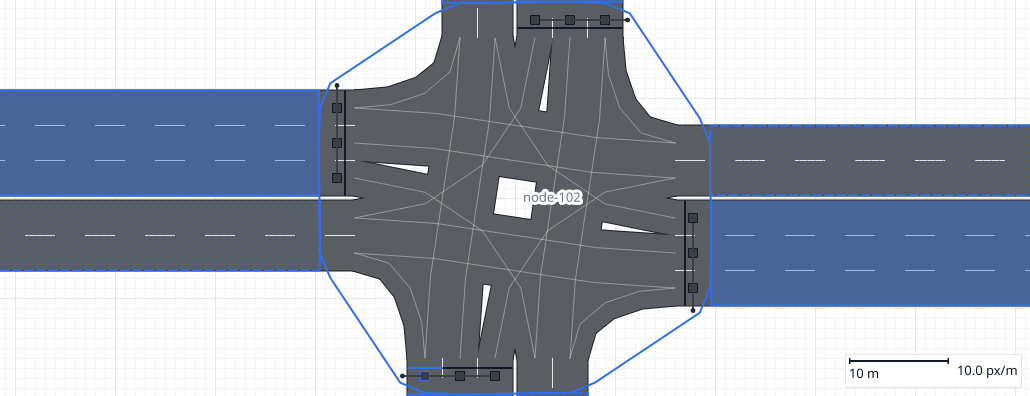
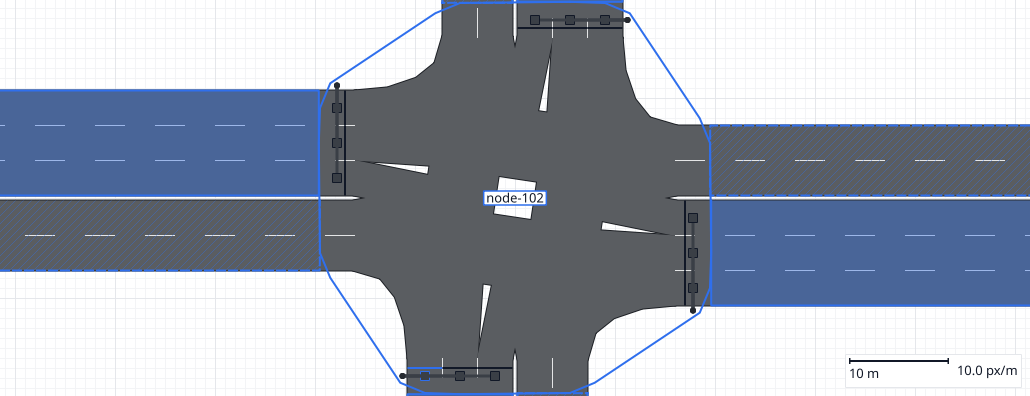
Canvas review, round 4: selected-only Node name tag, no resting Connector lane guides, heavier signal mast (D460)
Claude-Session: https://claude.ai/code/session_015Mvp19Hk1ohn1YiycgTvBD

diff --git a/src/editor/canvas_labels.cpp b/src/editor/canvas_labels.cpp
@@ -21,17 +21,17 @@ CanvasLabel::CanvasLabel(const QString& text, const QFont& font, QPointF anchor,
 }
 QRectF CanvasLabel::frame() const {
     const auto text = textRect();
-    if (style_ != Style::box && !onLane_) return text;
+    if (style_ == Style::halo && !onLane_) return text;
     // D460: a box or on-lane label is as tall as its text's ink (digits, Thai marks), not the
     // font's whole line, which made the boxes tall.
     const QFontMetricsF metrics(font());
     const auto ink = metrics.tightBoundingRect(this->text());
     const double top = metrics.ascent() + ink.top(), bottom = metrics.ascent() + ink.bottom();
-    const double x = onLane_ ? 2 : padX, y = onLane_ ? 1 : padY;
+    const double x = onLane_ ? 2 : style_ == Style::tag ? 3 : padX, y = onLane_ ? 1 : style_ == Style::tag ? 2 : padY;
     return QRectF(text.left() - x, top - y, text.width() + 2 * x, bottom - top + 2 * y);
 }
 QRectF CanvasLabel::boundingRect() const {
-    return style_ == Style::box || onLane_ ? frame().adjusted(-2, -2, 2, 2) : textRect().adjusted(-halo, -halo, halo, halo);
+    return style_ != Style::halo || onLane_ ? frame().adjusted(-2, -2, 2, 2) : textRect().adjusted(-halo, -halo, halo, halo);
 }
 QPainterPath CanvasLabel::shape() const { QPainterPath path; path.addRect(boundingRect()); return path; }
 void CanvasLabel::paint(QPainter* painter, const QStyleOptionGraphicsItem*, QWidget*) {
@@ -54,11 +54,12 @@ void CanvasLabel::paint(QPainter* painter, const QStyleOptionGraphicsItem*, QWid
         painter->restore();
         return;
     }
-    if (style_ == Style::box) {
-        // D425: a white box, grey frame (accent and heavier when pinned), then the text.
+    if (style_ != Style::halo) {
+        // D425 (and D460's tag): a white box, grey frame (accent and heavier when pinned), then the text.
         QPen pen(pinned_ ? canvasStyle::selection() : editorDesign::role(QPalette::Dark), pinned_ ? 1.5 : 1);
         painter->setPen(pen); painter->setBrush(editorDesign::role(QPalette::Base));
-        painter->drawRoundedRect(frame().adjusted(.5, .5, -.5, -.5), radius, radius);
+        const double corner = style_ == Style::tag ? 0 : radius; // a tag is a plain rectangle
+        painter->drawRoundedRect(frame().adjusted(.5, .5, -.5, -.5), corner, corner);
     } else {
         // D424: the glyph outlines, stroked wide in Base, then filled in the label's brush.
         painter->strokePath(glyphs, QPen(editorDesign::role(QPalette::Base), 2 * halo, Qt::SolidLine, Qt::RoundCap, Qt::RoundJoin));
@@ -111,6 +112,13 @@ std::vector<bool> EditorCanvas::placeLaneLabels(const QTransform& toScreen, std:
     for (std::size_t i = 0; i < labels_.size(); ++i) {
         auto* label = labels_[i];
         const auto& slot = label->laneSlot();
+        if (label->style() == CanvasLabel::Style::tag) { // D460: centred on the anchor, as it is
+            const auto box = label->frame();
+            label->setTransform(QTransform::fromTranslate(-box.center().x(), -box.center().y()));
+            placed.push_back(box.translated(-box.center()).translated(toScreen.map(label->anchor())).adjusted(-2, -2, 2, 2));
+            label->setVisible(true); label->setData(4, QStringLiteral("shown")); settled[i] = true;
+            continue;
+        }
         if (!slot || slot->laneCount < 1) continue;
         label->setOnLane(true);
         const QPointF a = toScreen.map(slot->from), b = toScreen.map(slot->to);

diff --git a/tests/canvas_layers_ui_tests.cpp b/tests/canvas_layers_ui_tests.cpp
@@ -59,12 +59,7 @@ void standalone(EditorCanvas& c,DrivingSide side) {
     require(extreme(ground,true)<extreme(surfaces,false),
             "A kerb lies over a surface of its level");
     require(extreme(upper,false)>extreme(surfaces,true),"The bridge's kerb is under the ground surfaces");
-    require(faint(c)>0,"A resting Connector at 14 px per lane shows no lane guides");
-    const auto guides=tagged(c,"connector-guide",connector);
-    require(guides.size()==2,"A resting two-lane Connector does not show one guide per lane");
-    for(auto* g:guides)
-        require(g->zValue()>extreme(surfaces,true) && g->zValue()<extreme(linkMarks,false) && g->pen().isCosmetic() &&
-                g->pen().color().alpha()==canvasStyle::connectorGuideAlpha,"A lane guide is not a faint line between the surfaces and the Link markings");
+    require(faint(c)==0,"A resting Connector still draws lane-centre guides (D460)");
     require(tagged(c,"road-marking",connector).empty(),"A resting Connector still draws lane markings");
     // 2. One asphalt: the Connector is its type's linkColor, not connectorColor.
     for(auto* s:surfaces)require(s->brush().color()==QColor("#49596d"),"A Connector surface is not road asphalt");
@@ -73,10 +68,6 @@ void standalone(EditorCanvas& c,DrivingSide side) {
     // 3. At rest no edge and no mouth edge; under 8 px no dividers either.
     require(connectorLines(c,connector,"edge")==0 && tagged(c,"connector-mouth-edge").empty(),
             "A resting Connector still draws its edges over the junction");
-    view(c,8/3.5*(1-1e-3));
-    require(faint(c)==0 && !tagged(c,"road-kerb").empty(),"Lane guides drawn under 8 px per lane");
-    view(c,8/3.5*(1-1e-12)); // D205: one rounding below is no zoom change
-    require(faint(c)>0,"A rounding of the scale hid the lane guides");
     // ...and selected, hovered or under the Connect tool it draws today's full set at z+4.5.
     view(c,4);
     c.select(connector.toStdString());c.redraw();settle();
@@ -119,14 +110,14 @@ int main(int argc,char** argv) {
         window.openFile(QString::fromStdString((data/"projects/four-leg-signalised.traffic.json").string()));settle();
         auto& canvas=*window.canvas();
         view(canvas,9);
-        require(faint(canvas)>=20 && !tagged(canvas,"road-kerb").empty(),"The shipped junction has no lane guide per Connector lane, or no kerb");
+        require(faint(canvas)==0 && !tagged(canvas,"road-kerb").empty(),"The shipped junction draws lane guides, or no road edge");
         if(argc>2)require(canvas.viewport()->grab().save(QString::fromUtf8(argv[2])+"-edit.png"),"Screenshot failed");
         for(int i=0;i<200;++i)window.findChild<QAction*>("editorStep")->trigger();
         settle();
         require(canvas.renderedVehicles()>0,"The forcing: the run shows vehicles");
         require(faint(canvas)==0 && !tagged(canvas,"road-kerb").empty() && !tagged(canvas,"road-surface").empty(),
                 "A run kept the lane guides or lost the road");
-        std::cout<<"Canvas layers: kerb under one asphalt, Node fill, faint resting lane guides, unchanged hits passed\n";
+        std::cout<<"Canvas layers: road edge under one asphalt, no Node fill, no resting lane guides, unchanged hits passed\n";
         return 0;
     }catch(const std::exception& e){std::cerr<<e.what()<<'\n';return 1;}
 }

diff --git a/src/editor/canvas_connectors.cpp b/src/editor/canvas_connectors.cpp
@@ -148,9 +148,9 @@ void EditorCanvas::drawConnectors() {
         addKerb(surface,c.level,narrowest,c.id);
         const bool readable=canvasStyle::laneMarkingsReadable(narrowest,viewScale());
         // D423: only a Connector being worked on -- selected, hovered or under the Connect tool --
-        // draws its edges, dividers and mouth edges over the junction. At rest the kerb is its edge,
-        // and from 8 px per lane, outside a run, each lane's centre path lies faintly under every
-        // Link marking: the turn a vehicle takes, legible where the lines no longer tangle.
+        // draws its edges, dividers and mouth edges over the junction. At rest the road edge is its
+        // only line: D460 dropped D423's faint lane-centre guides, which crossed in a tangle over
+        // every junction; hover or select a Connector to see its lanes.
         const bool emphasised=isSelected(c.id) || c.id==hoverObject_ || tool_==Tool::connect;
         const QColor laneColour(QString::fromStdString(style(c.displayType).laneColor));
         if(emphasised && readable)
@@ -161,16 +161,6 @@ void EditorCanvas::drawConnectors() {
             auto* item=scene_.addPath(canvasStyle::markingPath(marking.geometry,marking.type,look.laneDash,look.laneGap),pen);item->setZValue(z+4.5);
             item->setData(0,QStringLiteral("road-marking"));item->setData(1,QString::fromStdString(c.id));
             item->setData(2,marking.edge?QStringLiteral("edge"):QStringLiteral("divider"));
-        }
-        if(!emphasised && !runFrame_.scenario && canvasStyle::connectorLanesReadable(narrowest,viewScale()))
-        for(std::size_t i=0;i+1<drawing.boundaries.size();++i) {
-            const auto& left=drawing.boundaries[i];const auto& right=drawing.boundaries[i+1];
-            if(left.size()!=right.size() || left.size()<2)continue; // rails share their stations
-            std::vector<Point> centre;centre.reserve(left.size());
-            for(std::size_t k=0;k<left.size();++k)centre.push_back({(left[k].x+right[k].x)/2,(left[k].y+right[k].y)/2});
-            auto* guide=scene_.addPath(path(centre),canvasStyle::connectorGuidePen(laneColour));
-            guide->setZValue(z+canvasStyle::connectorGuideLayer);
-            guide->setData(0,QStringLiteral("connector-guide"));guide->setData(1,QString::fromStdString(c.id));
         }
         const auto mouthEdge=[&](const std::optional<ConnectorMouth>& mouth,const char* end) {
             if(!mouth || !readable || !emphasised)return;

diff --git a/src/editor/canvas_style.hpp b/src/editor/canvas_style.hpp
@@ -48,18 +48,6 @@ inline constexpr double creationPreviewOpacity = 0.6;
 inline bool laneMarkingsReadable(double laneWidthMetres, double pixelsPerMetre) {
     return laneWidthMetres * pixelsPerMetre >= minLanePixels * (1 - 1e-9);
 }
-// D423 (canvas style slice A): a resting Connector shows each lane's centre path as a faint 1 px
-// guide, only from 8 logical px per lane; the kerb under the one asphalt fill replaces its edges.
-inline constexpr double minConnectorLanePixels = 8;
-inline constexpr int connectorGuideAlpha = 110;
-inline bool connectorLanesReadable(double laneWidthMetres, double pixelsPerMetre) {
-    return laneWidthMetres * pixelsPerMetre >= minConnectorLanePixels * (1 - 1e-9);
-}
-inline QPen connectorGuidePen(QColor colour) {
-    colour.setAlpha(connectorGuideAlpha);
-    QPen pen(colour, 1, Qt::SolidLine, Qt::RoundCap, Qt::RoundJoin); pen.setCosmetic(true);
-    return pen;
-}
 // D423: every road surface is stroked with the kerb pen one layer below all surfaces of its level;
 // the fills cover the inner half, so only the outer contour of the road shows, with no seams.
 // D460 (owner review): a thin dark road edge, not a thick light kerb. The pen is 2 screen px; the
@@ -70,8 +58,8 @@ inline QPen kerbPen() {
     QPen pen(kerb(), kerbPixels, Qt::SolidLine, Qt::RoundCap, Qt::RoundJoin); pen.setCosmetic(true);
     return pen;
 }
-// Layers within a level (z = level*100 + ...): kerb, surface, resting Connector guides, Link markings.
-inline constexpr double kerbLayer = 0.5, surfaceLayer = 1, connectorGuideLayer = 1.5, linkMarkingLayer = 2;
+// Layers within a level (z = level*100 + ...): road edge, surface, Link markings.
+inline constexpr double kerbLayer = 0.5, surfaceLayer = 1, linkMarkingLayer = 2;
 
 inline QColor connectorBoundaryColor(const QColor& surface) {
     const auto linear = [](double channel) {

diff --git a/tests/node_ui_tests.cpp b/tests/node_ui_tests.cpp
@@ -1,5 +1,6 @@
 #include "../src/shell/editor_window.hpp"
 #include "ui_test_storage.hpp"
+#include "../src/editor/canvas_labels.hpp"
 #include "../src/project/json.hpp"
 #include <nlohmann/json.hpp>
 #include "../src/editor/canvas_style.hpp"
@@ -233,9 +234,20 @@ int main(int argc, char** argv) {
             require(c->viewport()->grab().save(QString::fromLocal8Bit(argv[2]) + name), "Node screenshot failed");
         };
         capture("-node-selected.png");
+        // D460: the selected Node's name is a tight framed tag centred on its centroid; at rest, none.
+        const auto nodeLabels = [&] { std::vector<CanvasLabel*> out;
+            for (auto* i : w.canvas()->scene()->items()) if (auto* l = dynamic_cast<CanvasLabel*>(i); l && l->data(0).toString() == "node-label") out.push_back(l);
+            return out; };
+        {
+            const auto shown = nodeLabels();
+            require(shown.size() == 1 && shown[0]->isVisible() && shown[0]->style() == CanvasLabel::Style::tag, "The selected Node shows no name tag");
+            const auto box = shown[0]->deviceTransform(c->viewportTransform()).mapRect(shown[0]->frame());
+            require(QLineF(box.center(), c->viewportTransform().map(shown[0]->anchor())).length() < 1, "The Node's name is not centred on it");
+        }
         require(outline(w) == canvasStyle::selection(), "The selected node's outline is not lit");
         table->clearSelection(); QApplication::processEvents();
         capture("-node-rest.png");
+        require(nodeLabels().empty(), "A Node at rest still shows its name");
         require(table->selectedItems().isEmpty(), "The row stayed selected");
         require(c->highlightedNode().empty() && drawnLegs(w).empty() && !outlined(w),
                 "Clearing the row kept the highlight");

diff --git a/src/editor/road_crossbar.cpp b/src/editor/road_crossbar.cpp
@@ -180,7 +180,7 @@ std::optional<QPointF> SignalHeadItem::poleAt() const {
 QRectF SignalHeadItem::boundingRect() const {
     auto bounds=shape().boundingRect();
     if(const auto pole=poleAt()) {
-        const double r=std::max(poleRadius,2/scale_);
+        const double r=std::max(poleRadius,2.5/scale_);
         bounds=bounds.united(QRectF(*pole-QPointF(r,r),QSizeF(2*r,2*r)));
     }
     return bounds.adjusted(-4/scale_,-4/scale_,4/scale_,4/scale_);
@@ -194,9 +194,10 @@ void SignalHeadItem::paint(QPainter* painter,const QStyleOptionGraphicsItem* opt
     if(const auto at=poleAt()) { // the mast arm from the pole to the head's kerb-side edge, then the pole
         const QPointF pole=*at;
         const double side=QPointF::dotProduct(pole-f->centre,f->across)<0?-1.:1.;
-        QPen arm(metal,2,Qt::SolidLine,Qt::FlatCap);arm.setCosmetic(true);
+        QPen arm(metal,3,Qt::SolidLine,Qt::FlatCap);arm.setCosmetic(true); // D460: a slightly heavier mast
+
         painter->setPen(arm);painter->drawLine(pole,f->centre+f->across*(side*f->size/2));
-        const double r=std::max(poleRadius,2/scale_);
+        const double r=std::max(poleRadius,2.5/scale_);
         painter->setPen(Qt::NoPen);painter->setBrush(QColor(38,42,48));painter->drawEllipse(pole,r,r);
     }
     // D460: one square box of one colour -- dark while editing, the state's colour in a run -- with a

diff --git a/src/editor/canvas_labels.hpp b/src/editor/canvas_labels.hpp
@@ -14,7 +14,8 @@ namespace multra {
 //
 // D460: an input rate may instead lie on its own lanes, along the road, while its text fits inside
 // them; zoomed out past that it hides (a pinned one falls back to its box). Box heights follow the
-// text's ink, not the font's line height.
+// text's ink, not the font's line height. A tag label (a selected Node's name) is a tight framed box
+// centred on its anchor, with no halo and no leader.
 class CanvasLabel : public QGraphicsSimpleTextItem {
 public:
     // Where an on-lane label may go: the input's bar runs across lanes firstLane.. of one Link
@@ -25,7 +26,7 @@ public:
     static constexpr double padX = 4, padY = 2;    // box padding
     static constexpr double radius = 3;            // box corner
     enum Priority { zone = 0, node = 1, decision = 2, input = 3 };
-    enum class Style { halo, box };
+    enum class Style { halo, box, tag }; // tag (D460): a tight frame centred on its anchor, never moved
     CanvasLabel(const QString& text, const QFont& font, QPointF anchor, int priority, bool pinned, Style style = Style::halo);
     QPointF anchor() const { return anchor_; }
     int priority() const { return priority_; }

diff --git a/src/editor/canvas_zones.cpp b/src/editor/canvas_zones.cpp
@@ -133,9 +133,10 @@ void EditorCanvas::drawNodes() {
         item->setZValue(200005);
         item->setData(0, QStringLiteral("node")); item->setData(1, QString::fromStdString(node.id));
         if (inArea) item->setData(2, QStringLiteral("area"));
-        const auto c = centroid(node.polygon);
-        addLabel(QString::fromStdString(node.name.empty() ? node.id : node.name), c, QGuiApplication::font(),
-                 canvasStyle::ink(), 200006, {}, {}, CanvasLabel::node, lit, CanvasLabel::Style::halo); // D424
+        // D460: the name shows only while the Node is selected, centred in a tight frame, no halo.
+        if (lit) addLabel(QString::fromStdString(node.name.empty() ? node.id : node.name), centroid(node.polygon),
+                          QGuiApplication::font(), editorDesign::role(QPalette::Text), 200006, QStringLiteral("node-label"),
+                          node.id, CanvasLabel::node, true, CanvasLabel::Style::tag);
         if (lit) drawNodeLegs(node);
     }
 }

diff --git a/src/editor/road_crossbar.hpp b/src/editor/road_crossbar.hpp
@@ -36,7 +36,7 @@ private:
 // one square box of one colour with sharp corners, in real metres, hung on a mast arm that meets
 // its kerb-side edge from a pole beside the road; dark while editing, the state's colour in a run,
 // where the stop line also keeps D199's shape cue (full, thinned middle, open) so it reads without hue.
-inline constexpr double headSize=0.90,headGap=0.35,poleRadius=0.22,poleSetback=0.50;
+inline constexpr double headSize=0.90,headGap=0.35,poleRadius=0.30,poleSetback=0.50;
 class SignalHeadItem : public RoadCrossbarItem {
 public:
     SignalHeadItem(const RoadCrossbar&, QColor line, double scale, bool preview = false, SignalCue cue = SignalCue::none);

diff --git a/docs/decisions/RECORD.md b/docs/decisions/RECORD.md
@@ -472,4 +472,4 @@ current contracts before applying an old choice. Without the reasoning a later s
 | <a id="d457"></a>D457 | 2026-11-04 | **The lateral lab ([LATERAL_LAB](../reference/LATERAL_LAB.md)): a shipped project, `data/projects/lateral-lab.traffic.json`, with four scenes (timed lane change, lane drop, 150 m weave at ×0.8, keep-left with a mixed fleet) whose behaviours carry the lateral keys as lab placeholders (0.5 m, 1.0 m, 1 m/s; the keep-left behaviour adds D95's pair and `kerbLaneBias` 1). A lab-only exception to D178: no other shipped project and no `data/` behaviour carries the keys** | Owner, 2026-11-04: asked for a project to test lateral behaviour, chose to ship the lab's values in the file, and chose to fix the engine first (D456). Built like the lane-change and weaving labs, through the editor's commands, from `tools/lateral_lab_network.hpp`; the keys come from one header shared with the weaving sweep | LATERAL_LAB; BA198–BA203; [evidence](../evidence/lateral-lab.md). Seeds 42–51: no clamp, nothing unfinished. Reopen when a cited preset exists (then the lab takes it) or if the lab's values are ever copied into a study. |
 | <a id="d458"></a>D458 | 2026-11-04 | **Gap seeking, slice 2 ([GAP_SEEKING](../reference/GAP_SEEKING.md) §2): with the lateral switch on, a moving stub refused for lack of a gap, whose forward test fails against the target-lane vehicle with its front ahead, takes that blocker as a moving virtual leader and falls back behind it, braking at most `comfortableDeceleration`. Its swap partner is excepted (D207). Slice 1 (D455) moves from M3_8_CONTRACT to GAP_SEEKING; `courtesyHolds` moves to `src/core/courtesy.cpp`. No new key** | Owner, 2026-11-04: "ทำต่อ", then, shown both ways measured, chose switched on only. Switched off a change is instantaneous once a gap opens, so falling back lost time (lab ×1.0 off 25/19/21 → 29/25/30 s; lane-change lab +1.7 %); switched on a crossing takes time. Capped at the cooperative key, the changer's own followers clamped (BA184) | GAP_SEEKING; BA204–BA205, BA197 revised; [evidence](../evidence/gap-seeking-changer.md). Lab on at ×1.0: delay 137/98/41 → 87/44/35 s, served 100 %; ×1.2 on served 80/91/97 → 91/100/100 %. Switched off byte-identical. Cost: the 500 m weave alone at ×1.0 on, delay 24.2 → 28.5 s. Deferred: speeding up to slip ahead, the state machine, a no-progress timer, abandoning a change. |
 | <a id="d459"></a>D459 | 2026-11-04 | **Two-entry weaves (M3_8_CONTRACT §2, "A joined chain"): an authored route's lane family may start a chain on a later Link's lane that no chain enters, kept only when a stub not kept by the first-Link rule stops beside it. It takes no input share, its core route carries `leadIn` (counted in the plain free-flow time), and a change onto it also sees the segments feeding its first segment. Downstream decisions (D93) never build one. The weaving lab gains scene 4, the 300 m weave with two entries** | Owner, 2026-11-04: "ทำให้วาด weave แบบสองทางเข้าได้", and the scene in the weaving lab. Before, a stub was kept only beside a full chain on the first Link, so ramp → mainline and mainline → exit were refused (BA179). Without the feeder check a mainline car changed onto the joined lane-0 chain in front of a ramp car still on its Connector, which was clamped | M3_8_CONTRACT §2, WEAVING_FIXTURE §2; BA179 revised, BA206–BA208; [evidence](../evidence/weaving-two-entries.md). Product runs and the lateral lab byte-identical. Not yet: a routing decision on the weave; a joined chain from a Connector start. |
-| <a id="d460"></a>D460 | 2026-11-05 | **Canvas review fixes: (a) a Node is a thin outline with no fill above the roads (1 px ink, generated fainter; study area 1.5 px green; highlighted 2 px accent), and its polygon is no longer filled as junction asphalt, amending D434's shade and D423's Q5 b; (b) a signal head has a real size in metres -- one 0.90 m square box of one colour with sharp corners, 0.35 m upstream of the stop line, dark while editing and the state's colour in a run (no lamps; the run stop line keeps D199's full/thinned/open cue), scaled down only in a lane under 1 m, hung on a mast arm that meets its kerb-side edge from a pole 0.5 m outside the road edge on the driving side -- amending D435's constant screen size; (e) the road edge is a thin dark line (a 2 px cosmetic stroke under the surfaces, 1 px showing) instead of D423's 0.5 m light kerb; (f) the shipped road colours are neutral greys (default #5a5d61, arterial #4c4f53, lane lines #e4e5e6, default Connector emphasis #71767c) instead of blue-greys; and a Link's plain solid outer-edge marking is no longer painted white over it (dashed and double edges still are); (c) a line edit's clear button is exempt from the field-height QToolButton rule; (d) an input rate on a Link lies in the middle of one of its served lanes, along the road and upright, the rates of one Link filling its lanes side by side and then lining up along each lane; while its text is taller than the lane or runs past the road's straight start it hides, and a pinned one falls back to its D425 box; box heights follow the text's ink, not the font's line height** | Owner review, 2026-11-05: "แก้การ Style ของ node ให้เป็นเส้นบางไม่มีพื้นหลัง", "ปรับรูปทรงของสัญญาไฟ ให้ดูดีขึ้น และขนาดคงที่สมจริง", then "สัญญานไฟจราจรให้เป็นสี่เหลี่ยมจัตุรัสไม่ต้องมีขอบมน ให้อยู่กันเสา" and "ให้ Link และ Connector ไม่มีเส้นขอบขาวหนา ให้เป็นเส้นดำบาง", then "กล่องสัญญาณไฟ … สีเดียว … จุดที่กล่องอยู่ติดเสาไม่ใช่ตรงกลางแต่เป็นขอบ", "node ไม่ต้องมีพื้นหลัง … draw order อยู่บนถนน" and "ปรับปรุงสีถนน … ลดสีน้ำเงิน ให้ดูเทาขึ้น", "ปุ่มกากบาทยังอยู่ไม่ตรงกลาง", "ลดความสูงของป้ายแสดงปริมาณจราจร และแสดงไว้บนช่องจราจร … ถ้าซูมออกมากจนขนาดตัวหนังสือใหญ่เกิน ก็ตั้งค่าให้ไม่แสดง". The clear button measured 24 px tall at y 2 inside a 22 px edit (the QToolButton min-height rule), so its X sat 3 px low | Amends D423 (kerb) and Slice D's planned white edge line. Supersedes D432's "every input rate visible after Fit" for unpinned rates and D426's columns for them; decisions and pinned rates keep B2/B3. No hit, gesture, file or simulation change. Tests: map-location-ui (clear button centred, rest and focus), road-crossbar-ui (square metres at 12 and 40 px/m, pole beside the road), canvas-layers-ui (thin dark edge pen), canvas-labels-ui (hidden far out, on-lane zoomed in, rotated and flipped), ui-audit-layout, node-ui. Images: `docs/images/canvas-review-d460/`. |
+| <a id="d460"></a>D460 | 2026-11-05 | **Canvas review fixes: (a) a Node is a thin outline with no fill above the roads (1 px ink, generated fainter; study area 1.5 px green; highlighted 2 px accent), and its polygon is no longer filled as junction asphalt, amending D434's shade and D423's Q5 b; (b) a signal head has a real size in metres -- one 0.90 m square box of one colour with sharp corners, 0.35 m upstream of the stop line, dark while editing and the state's colour in a run (no lamps; the run stop line keeps D199's full/thinned/open cue), scaled down only in a lane under 1 m, hung on a mast arm that meets its kerb-side edge from a pole 0.5 m outside the road edge on the driving side -- amending D435's constant screen size; (e) the road edge is a thin dark line (a 2 px cosmetic stroke under the surfaces, 1 px showing) instead of D423's 0.5 m light kerb; (f) the shipped road colours are neutral greys (default #5a5d61, arterial #4c4f53, lane lines #e4e5e6, default Connector emphasis #71767c) instead of blue-greys; (g) a Node's name shows only while it is selected, as a tight framed tag (no halo, square corners) centred on its centroid; (h) a resting Connector draws no lane-centre guides (D423 Q7's faint guides tangled over every junction) -- its lanes show on hover, selection or the Connect tool; the mast is 3 px with a 0.30 m pole; and a Link's plain solid outer-edge marking is no longer painted white over it (dashed and double edges still are); (c) a line edit's clear button is exempt from the field-height QToolButton rule; (d) an input rate on a Link lies in the middle of one of its served lanes, along the road and upright, the rates of one Link filling its lanes side by side and then lining up along each lane; while its text is taller than the lane or runs past the road's straight start it hides, and a pinned one falls back to its D425 box; box heights follow the text's ink, not the font's line height** | Owner review, 2026-11-05: "แก้การ Style ของ node ให้เป็นเส้นบางไม่มีพื้นหลัง", "ปรับรูปทรงของสัญญาไฟ ให้ดูดีขึ้น และขนาดคงที่สมจริง", then "สัญญานไฟจราจรให้เป็นสี่เหลี่ยมจัตุรัสไม่ต้องมีขอบมน ให้อยู่กันเสา" and "ให้ Link และ Connector ไม่มีเส้นขอบขาวหนา ให้เป็นเส้นดำบาง", then "กล่องสัญญาณไฟ … สีเดียว … จุดที่กล่องอยู่ติดเสาไม่ใช่ตรงกลางแต่เป็นขอบ", "node ไม่ต้องมีพื้นหลัง … draw order อยู่บนถนน" and "ปรับปรุงสีถนน … ลดสีน้ำเงิน ให้ดูเทาขึ้น", then "เพิ่มความหนาของเสา…", "ป้ายชื่อ node จัดให้อยู่กึ่งกลาง ไม่ใส่เรืองแสง … กรอบสี่เหลี่ยมขนาดกระชับ แสดงเฉพาะตอนเลือก" and "ทบทวนเส้นขาวบางที่อยู่กึ่งกลางช่องจราจรของ Connector", "ปุ่มกากบาทยังอยู่ไม่ตรงกลาง", "ลดความสูงของป้ายแสดงปริมาณจราจร และแสดงไว้บนช่องจราจร … ถ้าซูมออกมากจนขนาดตัวหนังสือใหญ่เกิน ก็ตั้งค่าให้ไม่แสดง". The clear button measured 24 px tall at y 2 inside a 22 px edit (the QToolButton min-height rule), so its X sat 3 px low | Amends D423 (kerb) and Slice D's planned white edge line. Supersedes D432's "every input rate visible after Fit" for unpinned rates and D426's columns for them; decisions and pinned rates keep B2/B3. No hit, gesture, file or simulation change. Tests: map-location-ui (clear button centred, rest and focus), road-crossbar-ui (square metres at 12 and 40 px/m, pole beside the road), canvas-layers-ui (thin dark edge pen), canvas-labels-ui (hidden far out, on-lane zoomed in, rotated and flipped), ui-audit-layout, node-ui. Images: `docs/images/canvas-review-d460/`. |

diff --git a/docs/PROGRESS.md b/docs/PROGRESS.md
@@ -7,11 +7,15 @@ Newest entry at the top: what changed and why. The rules are in [AGENTS](../AGEN
 
 ## 2026-11-05 — Canvas review fixes (D460)
 
-- **Owner review** of the canvas: four items, then two more rounds (single-colour square heads
-  on a pole, thin dark road edges, bare Node outlines, greyer roads).
+- **Owner review** of the canvas: four items, then three more rounds (single-colour square heads
+  on a pole, thin dark road edges, bare Node outlines and tags, greyer roads, no resting lane guides).
 - **Node:** a thin outline with no fill, drawn above the roads. The polygon is no longer filled as
   junction asphalt. Highlighted Nodes stay 2 px accent and study-area Nodes green.
 - **Road colour:** neutral greys instead of blue-greys (`data/display-types/`).
+- **Node name:** shown only while the Node is selected, as a tight framed tag centred on it, no halo.
+- **Connector lane guides:** the faint resting lane-centre lines (D423 Q7) are gone; they tangled
+  over every junction. A Connector's lanes still show on hover, selection or the Connect tool.
+- **Pole:** the mast arm is 3 px and the pole 0.30 m.
 - **Signal head:** a 0.90 m square box of one colour with sharp corners, 0.35 m upstream of the
   stop line: dark while editing, the state's colour in a run, with no lamps. The run stop line
   keeps D199's shape cue. A mast arm meets the box's kerb-side edge from a pole just outside the

diff --git a/docs/plans/CANVAS_STYLE.md b/docs/plans/CANVAS_STYLE.md
@@ -104,7 +104,8 @@ Fit and overlay/edge exclusion; `canvas-labels-ui` retains transformed/cluster/l
 Nodes are thin outlines above the roads with no fill; the polygon is no longer junction asphalt
 (amends Q5). Signal heads are one sharp 0.9 m square box of one colour (dark when editing, the
 state's in a run), on a mast arm meeting its kerb-side edge from a pole beside the road. Roads
-are neutral greys.
+are neutral greys. A Node's name shows only while it is selected, as a tight framed tag at its
+centre. Resting Connectors draw no lane-centre guides (amends Q7).
 Road edges are a thin dark line instead of the light kerb (amends Q8), and a Link's plain solid
 outer edge is no longer painted white (Slice D's white edge line is withdrawn unless the owner
 asks again). Input rates on a Link lie in their lanes, along the road,
